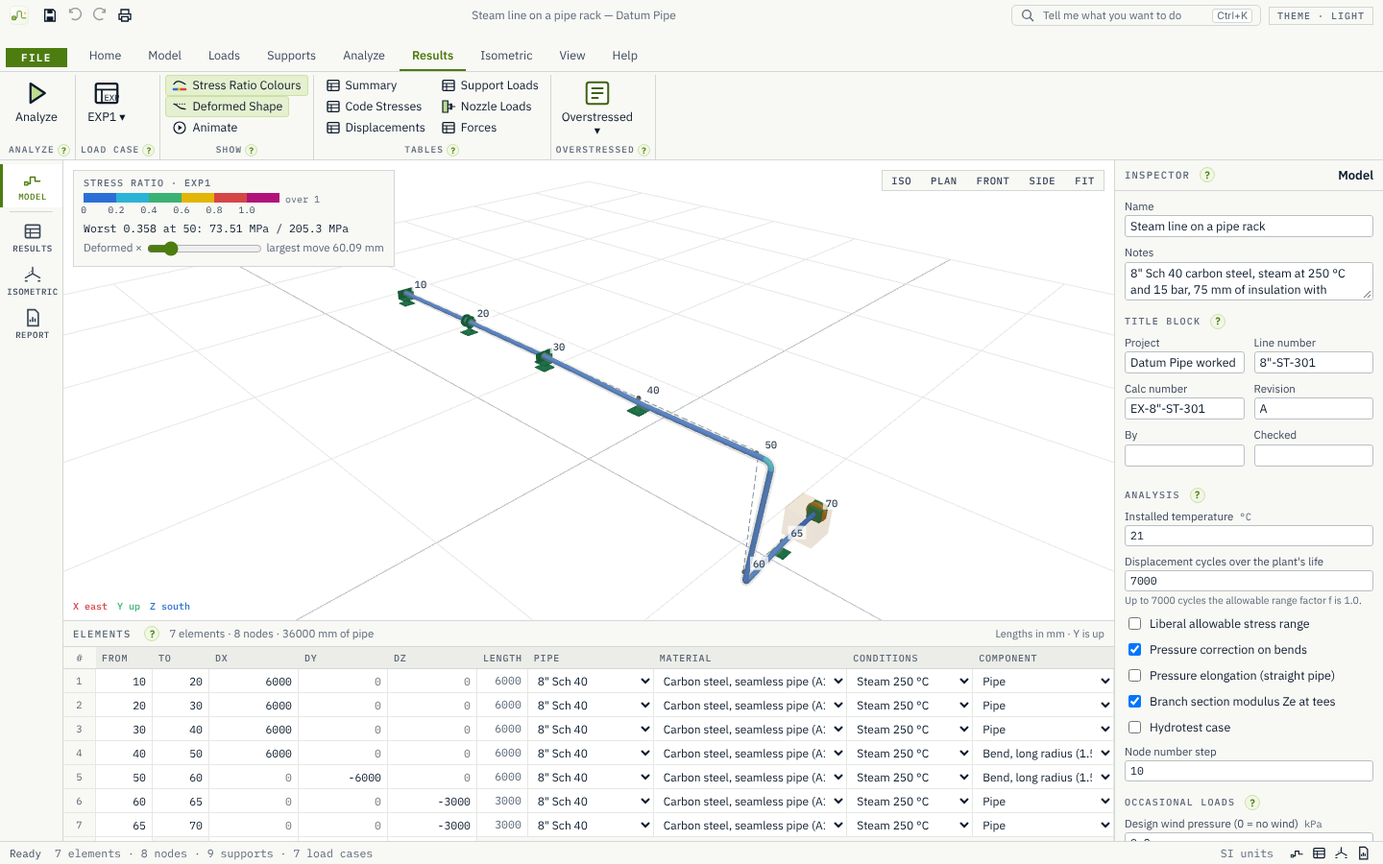
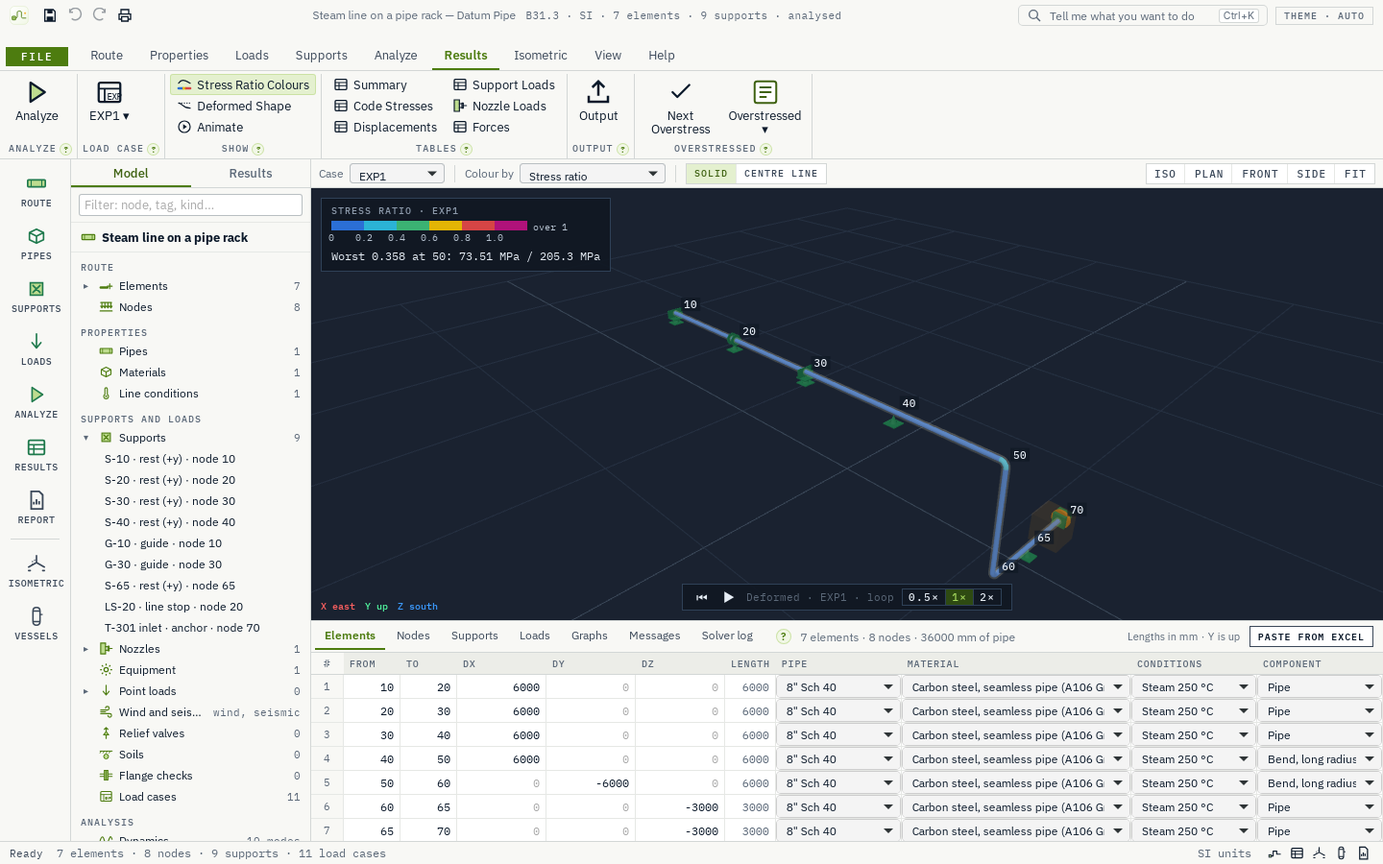
0.7.0: the new window, finished
Review of 0.6.1-0.6.8 in the real app: help card for the window (the
? beside the tree), the Inspector's help as a card, the README picture
of the new window, the load cases' Kind column widened. Roadmap: the
old 0.7 (load combinations and the rest) is 0.8.

Claude-Session: https://claude.ai/code/session_015XbkM7HboUBHrMv4heSExN

diff --git a/ui/src/help.tsx b/ui/src/help.tsx
@@ -75,7 +75,9 @@ export const HELP: Record<string, Topic> = {
   iso: { t: "Isometric", what: "An automatic 30° isometric of the model with bends, tees, valves, flanges, supports, node numbers and dimensions, and optional tags (the highest stress ratio of each element, support loads). Large models split across sheets.", how: ["Print it, or save it as SVG or PDF (File › Print, Save as PDF)."] },
   report: { t: "Report", what: "The stress report: title block, input echo (pipes, materials, conditions), load cases, stress summary per case with the worst point, support loads, nozzle loads, the isometric, the equilibrium checks and the solver version." },
   view: { t: "View", what: "Fit the model; standard views (iso, plan, front, side); node labels. Orbit with the left button, pan with the right or middle button, zoom with the wheel." },
-  inspector: { t: "Inspector", what: "The values of what is selected, in display units: an element, a node with its supports, nozzle and loads, or the model's settings when nothing is selected." },
+  inspector: { t: "Inspector", what: "A card over the 3D view with the values of what is picked, in display units: an element, a node (with what the analysis found there), a support, a nozzle or a load. The model's own settings open from its name at the top of the tree. × or Esc closes the card." },
+  window: { t: "The window", what: "Down the left, the workflow bar: Route, Pipes, Supports, Loads, Analyze, Results and Report, then Isometric and Vessels; a step's icon turns green once it is done, and a click opens its ribbon tab and view. Beside it, the model tree: everything in the model with its count and a filter, and a Results tab with each case's worst ratio and the checks. Above the 3D view, the bar with the case, colour by, solid or centre line and the views; picked items open as a card over the view. At the bottom, the panel's tabs: Elements, Nodes, Supports and Loads as tables, Graphs, Messages (everything the window said, with its time) and the solver log.",
+    how: ["Analyze › Check Model lists what to fix or check, each with Show.", "Results › Next Overstress steps through the overstressed points, worst first; Results › Output writes the cases and reports you tick to a spreadsheet file.", "Elements › Paste from Excel adds elements from rows copied in a spreadsheet."] },
   view3d: { t: "3D view", what: "The piping at its true diameter, with insulation as a translucent sleeve, bends, tees, valves, flanges, supports and node labels. Click an element or a node to select it; the table follows. Right-click a node for supports, nozzles and loads, or an element for its component, splitting, an expansion loop or deleting it." },
 };
 

diff --git a/ui/src/tree.tsx b/ui/src/tree.tsx
@@ -5,6 +5,7 @@ import { For, Show, createSignal, JSX } from "solid-js";
 import { model, sel, setSel, setView, setTab } from "./store";
 import { results, stale, setCaseId } from "./rstate";
 import { Icon } from "./ui";
+import { Help } from "./help";
 import { num } from "./api";
 import * as P from "./props";
 import { SUPPORTS } from "./cmds";
@@ -92,7 +93,7 @@ const ResultsTree = () => {
 
 export const Tree = () => (
   <aside class="tree">
-    <div class="ttabs"><button classList={{ on: treeTab() === "model" }} onClick={() => setTreeTab("model")}>Model</button><button classList={{ on: treeTab() === "results" }} onClick={() => setTreeTab("results")}>Results</button></div>
+    <div class="ttabs"><button classList={{ on: treeTab() === "model" }} onClick={() => setTreeTab("model")}>Model</button><button classList={{ on: treeTab() === "results" }} onClick={() => setTreeTab("results")}>Results</button><Help k="window" /></div>
     <Show when={treeTab() === "model"}><div class="tf"><input placeholder="Filter: node, tag, kind…" value={filter()} onInput={e => setFilter(e.currentTarget.value)} aria-label="Filter the tree" /></div></Show>
     <Show when={model()}><Show when={treeTab() === "model"} fallback={<ResultsTree />}><ModelTree /></Show></Show>
   </aside>

diff --git a/ui/src/styles.css b/ui/src/styles.css
@@ -999,3 +999,6 @@ textarea.paste { width: 100%; box-sizing: border-box; min-height: 160px; font: 1
 .outgrid { display: grid; grid-template-columns: repeat(2, minmax(0, 1fr)); gap: 18px; }
 .outgrid > div { display: flex; flex-direction: column; gap: 2px; }
 .outgrid .cap { font: 500 10px var(--mono); letter-spacing: .1em; text-transform: uppercase; color: var(--muted); margin-bottom: 4px; }
+/* The load cases' Kind column was cut ("Operatin", found while taking the 0.7.0 screenshots). */
+.tbl.cases td:nth-child(2) select { min-width: 112px; }
+.tree .ttabs .help { align-self: center; margin: 0 6px; flex: none; }

diff --git a/docs/verification/0.7.0.md b/docs/verification/0.7.0.md
@@ -1,0 +1,116 @@
+# Datum Pipe 0.7.0: verification record
+
+Every row was solved by Datum Pipe's engine and compared with a reference worked out independently. The same checks run as tests (`cargo test`, `bench.rs`) and in the app (Help › Verification). SI base units.
+
+| # | Benchmark | Quantity | Datum Pipe | Reference | Error | Source | |
+| --- | --- | --- | --- | --- | --- | --- | --- |
+| 1 | Cantilever with an end load | Tip deflection | -3.806237e-2 | -3.806237e-2 | 1.3e-14 | Beam theory: PL³/3EI + PL/κGA (shear, κ = 0.5) | pass |
+| 1 | Cantilever with an end load | Root moment | 3.000000e4 | 3.000000e4 | 1.7e-14 | Statics: P L | pass |
+| 1 | Cantilever with an end load | Tip rotation | -1.892448e-2 | -1.892448e-2 | 9.2e-15 | Beam theory: PL²/2EI | pass |
+| 2 | Pipe under its own weight between two anchors | Mid-span deflection | -6.676014e-4 | -6.676014e-4 | 3.2e-16 | Beam theory: wL⁴/384EI + wL²/8κGA | pass |
+| 2 | Pipe under its own weight between two anchors | End moment | 1.379962e3 | 1.379962e3 | 1.2e-15 | Beam theory: wL²/12 | pass |
+| 2 | Pipe under its own weight between two anchors | End reaction | 1.379962e3 | 1.379962e3 | 2.5e-15 | Statics: wL/2 | pass |
+| 3 | L-bend between two anchors, heated | End force along X | -6.855784e3 | -6.855784e3 | 2.9e-15 | Flexibility (elastic centre) method by hand | pass |
+| 3 | L-bend between two anchors, heated | End force along Y | -4.154290e3 | -4.154290e3 | 2.3e-14 | Flexibility (elastic centre) method by hand | pass |
+| 3 | L-bend between two anchors, heated | End moment | -1.141230e4 | -1.141230e4 | 4.3e-15 | Flexibility (elastic centre) method by hand | pass |
+| 4 | Z-bend between two anchors, heated | End force along X | -4.527476e3 | -4.527476e3 | 2.3e-14 | Flexibility (elastic centre) method by hand | pass |
+| 4 | Z-bend between two anchors, heated | End force along Y | -5.654916e3 | -5.654916e3 | 4.7e-15 | Flexibility (elastic centre) method by hand | pass |
+| 4 | Z-bend between two anchors, heated | End moment | 7.909797e3 | 7.909797e3 | 6.9e-15 | Flexibility (elastic centre) method by hand | pass |
+| 5 | A bend's flexibility (6" long-radius elbow) | End rotation under an in-plane moment | 9.951628e-4 | 9.951628e-4 | 1.3e-15 | k = 1.65/h, h = T·R/r²; θ = k M R (π/2) / EI | pass |
+| 5 | A bend's flexibility (6" long-radius elbow) | Flexibility factor k | 6.590019e0 | 6.590000e0 | 2.9e-6 | h = 0.2504 by hand | pass |
+| 6 | Minimum wall for internal pressure | Pressure design thickness | 5.925176e-3 | 5.925176e-3 | 9.5e-9 | Pressure design thickness equation (para. 304.1.2) by hand | pass |
+| 6 | Minimum wall for internal pressure | Nominal wall needed (corrosion, 12.5 % mill) | 8.485915e-3 | 8.485915e-3 | 5.8e-8 | Pressure design thickness equation (para. 304.1.2) by hand | pass |
+| 6 | Minimum wall for internal pressure | Hoop stress on the remaining wall | 1.741442e8 | 1.741442e8 | 9.2e-11 | Pressure design thickness equation (para. 304.1.2) by hand | pass |
+| 7 | Expansion loop between two anchors, heated | Anchor force along the line | -1.835947e3 | -1.835947e3 | 4.5e-15 | Expansion loop by the elastic centre method | pass |
+| 7 | Expansion loop between two anchors, heated | Anchor moment | 1.658275e3 | 1.658275e3 | 1.9e-13 | Expansion loop by the elastic centre method | pass |
+| 9 | Minimum wall of a bend at its intrados | Bend factor I at the intrados | 1.291209e0 | 1.291209e0 | 1.6e-10 | Bend factor from the membrane equilibrium of a torus, by hand | pass |
+| 9 | Minimum wall of a bend at its intrados | Pressure design thickness | 7.588391e-3 | 7.588391e-3 | 4.6e-8 | Bend factor from the membrane equilibrium of a torus, by hand | pass |
+| 10 | Pressure elongation between two anchors | Anchor force along the line | -6.399112e4 | -6.399112e4 | 0.0e0 | Hooke's law: N = E A (σL − ν σh) / E | pass |
+| 11 | A tee branch's effective section modulus | Sustained stress in the branch at the tee | 1.801948e8 | 1.801948e8 | 2.0e-10 | Ze = π r₂² Ts with Markl's tee factors, by hand | pass |
+| 12 | A one-way rest under a cantilever's tip | Pushed up: tip lifts as a free cantilever | 3.806237e-2 | 3.806237e-2 | 1.3e-14 | Beam theory: PL³/3EI + PL/κGA, rest open | pass |
+| 12 | A one-way rest under a cantilever's tip | Pushed up: rest load | 0.000000e0 | 0.000000e0 | 0.0e0 | The rest cannot pull | pass |
+| 12 | A one-way rest under a cantilever's tip | Pushed down: rest load | 1.000000e4 | 1.000000e4 | 0.0e0 | Statics: the rest carries P | pass |
+| 13 | A gap closing at a cantilever's tip | Tip movement (the gap) | 5.000000e-3 | 5.000000e-3 | 0.0e0 | The gap: 5 mm | pass |
+| 13 | A gap closing at a cantilever's tip | Restraint load | -8.686367e3 | -8.686367e3 | 4.4e-15 | Beam theory: P − g / c, c = L³/3EI + L/κGA | pass |
+| 14 | Friction at a rest, heated | Sliding: friction force (μ P) | -3.000000e3 | -3.000000e3 | 0.0e0 | Coulomb friction: μ N, N = P by statics | pass |
+| 14 | Friction at a rest, heated | Sliding: end movement | 1.318558e-2 | 1.318558e-2 | 0.0e0 | Hooke's law: ε L − μ P L / EA | pass |
+| 14 | Friction at a rest, heated | Sticking: friction force (E A ε < μ P) | -1.609389e6 | -1.609389e6 | 0.0e0 | Hooke's law: E A ε | pass |
+| 14 | Friction at a rest, heated | Sticking: end movement | 0.000000e0 | 0.000000e0 | 0.0e0 | The rest holds the pipe | pass |
+| 15 | Wind on a cantilever | Tip deflection (OCC WIN) | 5.053321e-4 | 5.053321e-4 | 2.6e-14 | Beam theory: qL⁴/8EI + qL²/2κGA, q = p Cd D | pass |
+| 15 | Wind on a cantilever | Root moment (OCC WIN) | 5.300663e2 | 5.300662e2 | 2.1e-14 | Statics: qL²/2 | pass |
+| 16 | Static seismic on a cantilever | Root force (OCC SEIS) | -2.494823e2 | -2.494823e2 | 1.6e-15 | Statics: 0.3 w L | pass |
+| 16 | Static seismic on a cantilever | Root moment (OCC SEIS) | 3.742235e2 | 3.742235e2 | 5.6e-15 | Statics: 0.3 w L²/2 | pass |
+| 17 | Occasional stress at the root of the cantilever | Sustained plus seismic stress | 1.164797e7 | 1.164797e7 | 1.0e-14 | Para. 302.3.6: SL + S_occ, beam theory M/Z | pass |
+| 18 | A spring hanger on a heated riser and run | Hot load H | 2.000000e4 | 2.000000e4 | 0.0e0 | Statics: the load at the held hanger | pass |
+| 18 | A spring hanger on a heated riser and run | Travel Δ | 8.806800e-3 | 8.806800e-3 | 0.0e0 | Free thermal growth of the 4 m riser | pass |
+| 18 | A spring hanger on a heated riser and run | Spring rate chosen (B-10) | 2.050000e5 | 2.050000e5 | 0.0e0 | The table's first size that fits | pass |
+| 18 | A spring hanger on a heated riser and run | Cold load C = H + k Δ | 2.180539e4 | 2.180539e4 | 0.0e0 | Hooke's law | pass |
+| 18 | A spring hanger on a heated riser and run | Hanger load in operation (OPE1) | 2.000000e4 | 2.000000e4 | 0.0e0 | C − k Δ = H | pass |
+| 19 | A steam turbine's nozzle criteria | Exhaust: 3F + M (lb, ft·lb) | 9.561680e3 | 9.561680e3 | 3.8e-16 | Statics, and the turbine criteria as published equations | pass |
+| 19 | A steam turbine's nozzle criteria | All nozzles at the exhaust: 2Fc + Mc | 8.999693e3 | 8.999693e3 | 2.0e-16 | Statics, and the turbine criteria as published equations | pass |
+| 19 | A steam turbine's nozzle criteria | All nozzles: Fy (lb) | 1.000000e3 | 1.000000e3 | 4.5e-16 | Statics, and the turbine criteria as published equations | pass |
+| 19 | A steam turbine's nozzle criteria | Combined allowable 250·Dc | 2.121320e3 | 2.121320e3 | 0.0e0 | Dc = √(6² + 6²) in | pass |
+| 20 | A flange pair's leakage (equivalent pressure) | Equivalent pressure | 7.257465e6 | 7.257465e6 | 4.3e-12 | Statics, and P_eq = 16M/πG³ + 4F/πG² (Kellogg, 1956) | pass |
+| 20 | A flange pair's leakage (equivalent pressure) | Ratio to the rating | 1.651493e0 | 1.651493e0 | 3.8e-12 | Statics, and P_eq = 16M/πG³ + 4F/πG² (Kellogg, 1956) | pass |
+| 21 | A relief valve's thrust at an open end | Thrust with the load factor | 1.380356e4 | 1.380356e4 | 0.0e0 | Momentum and pressure thrust at a sonic exit (ideal gas), and statics | pass |
+| 21 | A relief valve's thrust at an open end | Anchor force (up) | 1.380356e4 | 1.380356e4 | 3.3e-14 | Momentum and pressure thrust at a sonic exit (ideal gas), and statics | pass |
+| 21 | A relief valve's thrust at an open end | Anchor moment | 2.760711e4 | 2.760711e4 | 3.1e-14 | Momentum and pressure thrust at a sonic exit (ideal gas), and statics | pass |
+| 22 | A cantilever from a flexible nozzle | Extra tip deflection | 4.100000e-2 | 4.100000e-2 | 2.2e-15 | Beam theory with springs in series: P L²/kθ + P/ks, and statics | pass |
+| 22 | A cantilever from a flexible nozzle | Nozzle rotation | 2.000000e-2 | 2.000000e-2 | 1.7e-15 | Beam theory with springs in series: P L²/kθ + P/ks, and statics | pass |
+| 22 | A cantilever from a flexible nozzle | Anchor moment | 2.000000e4 | 2.000000e4 | 1.6e-15 | Beam theory with springs in series: P L²/kθ + P/ks, and statics | pass |
+| 23 | An expansion joint's spring rates and pressure thrust | Lateral force for a 5 mm offset | 5.000000e3 | 5.000000e3 | 1.8e-16 | The maker's rates by definition, and statics with springs in series | pass |
+| 23 | An expansion joint's spring rates and pressure thrust | Rotation under 100 N·m | 3.333333e-3 | 3.333333e-3 | 1.3e-16 | The maker's rates by definition, and statics with springs in series | pass |
+| 23 | An expansion joint's spring rates and pressure thrust | Anchor force from the pressure thrust | 2.995083e4 | 2.995083e4 | 0.0e0 | The maker's rates by definition, and statics with springs in series | pass |
+| 24 | Wind that changes with height, both ways | Base shear (OCC WIN) | 5.889625e2 | 5.889625e2 | 1.1e-13 | Statics: the area under the profile and its moment, element by element | pass |
+| 24 | Wind that changes with height, both ways | Base moment (OCC WIN) | 3.916601e3 | 3.916601e3 | 7.4e-14 | Statics: the area under the profile and its moment, element by element | pass |
+| 24 | Wind that changes with height, both ways | Base shear the other way (OCC −WIN) | -5.889625e2 | -5.889625e2 | 1.1e-13 | Statics: the area under the profile and its moment, element by element | pass |
+| 25 | A vertical vessel's shell and heads (V-101) | Shell thickness for pressure | 1.253620e-2 | 1.253620e-2 | 0.0e0 | Thin-shell membrane equations with the liquid's static head | pass |
+| 25 | A vertical vessel's shell and heads (V-101) | Bottom head thickness for pressure | 1.060473e-2 | 1.060473e-2 | 0.0e0 | Thin-shell membrane equations with the liquid's static head | pass |
+| 25 | A vertical vessel's shell and heads (V-101) | MAWP at the top (shell governs) | 1.659238e6 | 1.659238e6 | 1.4e-16 | Thin-shell membrane equations with the liquid's static head | pass |
+| 25 | A vertical vessel's shell and heads (V-101) | Hydrotest pressure | 2.157010e6 | 2.157010e6 | 2.2e-16 | Thin-shell membrane equations with the liquid's static head | pass |
+| 25 | A vertical vessel's shell and heads (V-101) | Volume | 1.679332e1 | 1.679495e1 | 9.7e-5 | π R² L + 2 × π D³ / 24 | pass |
+| 26 | A vessel nozzle's reinforcement (V-101, N1) | Area required d tr | 2.125036e-3 | 2.125036e-3 | 0.0e0 | Area replacement within the reinforcement limits | pass |
+| 26 | A vessel nozzle's reinforcement (V-101, N1) | Area available | 3.577674e-3 | 3.577674e-3 | 1.2e-16 | Area replacement within the reinforcement limits | pass |
+| 26 | A vessel nozzle's reinforcement (V-101, N1) | Neck's minimum thickness | 1.015645e-2 | 1.015645e-2 | 0.0e0 | Area replacement within the reinforcement limits | pass |
+| 27 | A horizontal vessel on two saddles (D-201) | Mid-span moment M2 | 4.043117e5 | 4.043117e5 | 0.0e0 | Statics of the vessel as a beam on two saddles | pass |
+| 27 | A horizontal vessel on two saddles (D-201) | Tangential shear (stiffened by the head) | 1.757772e7 | 1.757964e7 | 1.1e-4 | Zick's method (1951), the 120° table constants | pass |
+| 27 | A horizontal vessel on two saddles (D-201) | Circumferential stress at the horn | -5.930434e7 | -5.925860e7 | 7.7e-4 | Zick's method (1951), the 120° table constants | pass |
+| 28 | A vertical vessel on a skirt (V-101) | Wind base shear | 1.362720e4 | 1.362696e4 | 1.8e-5 | Drag on the projected outline | pass |
+| 28 | A vertical vessel on a skirt (V-101) | Seismic base shear | 1.841941e4 | 1.843372e4 | 7.8e-4 | Newton's second law: c m g | pass |
+| 28 | A vertical vessel on a skirt (V-101) | Anchor bolt stress | 1.796196e7 | 1.796196e7 | 2.1e-16 | Statics: 4M/(N BC) − W/N over the root area | pass |
+| 28 | A vertical vessel on a skirt (V-101) | Base ring thickness | 1.231754e-2 | 1.231754e-2 | 0.0e0 | A cantilever strip: l √(3 σ / S) | pass |
+| 29 | A bolted cover (V-101, M1) | Bolt load in operation Wm1 | 4.997296e5 | 4.997296e5 | 2.3e-16 | The bolted flange method: gasket loads, bolt loads, a flat cover in bending | pass |
+| 29 | A bolted cover (V-101, M1) | Cover thickness, operating | 4.288670e-2 | 4.288670e-2 | 0.0e0 | The bolted flange method: gasket loads, bolt loads, a flat cover in bending | pass |
+| 29 | A bolted cover (V-101, M1) | Cover thickness, gasket seating | 4.627164e-2 | 4.627164e-2 | 0.0e0 | The bolted flange method: gasket loads, bolt loads, a flat cover in bending | pass |
+| 30 | A vessel's lifting lugs (V-101) | Tension across the hole | 1.979673e7 | 1.979673e7 | 0.0e0 | Statics of a plate lug | pass |
+| 30 | A vessel's lifting lugs (V-101) | Tension and bending at the base | 1.734767e7 | 1.734767e7 | 0.0e0 | Statics of a plate lug | pass |
+| 31 | A vessel nozzle under its piping's loads (V-101, N1) | Neck stress in OPE1 | 6.925812e7 | 6.925812e7 | 0.0e0 | Beam theory on the neck: pressure, axial force, bending and torsion | pass |
+| 32 | A horizontal vessel under full vacuum (D-201) | Allowable external pressure, shell | 1.935147e5 | 1.935147e5 | 0.0e0 | Elastic collapse of a ring-stiffened tube (von Mises, short tube) and ring buckling 3EI/(R³ Ls) | pass |
+| 32 | A horizontal vessel under full vacuum (D-201) | Ring's moment of inertia needed | 2.752597e-6 | 2.752597e-6 | 0.0e0 | Elastic collapse of a ring-stiffened tube (von Mises, short tube) and ring buckling 3EI/(R³ Ls) | pass |
+| 33 | Natural frequencies of a pipe span | Cantilever, first frequency (Hz) | 1.793499e1 | 1.803368e1 | 5.5e-3 | Beam theory: f1 = (λ²/2π) √(EI / m L⁴) | pass |
+| 33 | Natural frequencies of a pipe span | Fixed-fixed span, first frequency (Hz) | 1.028477e1 | 1.032776e1 | 4.2e-3 | Beam theory: f1 = (λ²/2π) √(EI / m L⁴) | pass |
+| 34 | A cantilever in a response spectrum | Base shear, one mode (flat 0.5 g) | 2.554657e2 | 2.549294e2 | 2.1e-3 | The first mode of a uniform cantilever carries 0.6131 of its mass: V = 0.6131 m L Sa | pass |
+| 35 | A heavy tip mass driven at half its natural frequency | Tip amplitude | 5.165130e-3 | 5.165121e-3 | 1.8e-6 | One degree of freedom: (F/k) / √((1 − r²)² + (2ζr)²) | pass |
+| 36 | A straight pipe between anchors made 3 mm short | Installed axial force (COLD) | -3.654879e5 | -3.654879e5 | 0.0e0 | Hooke's law: EA c / L | pass |
+| 36 | A straight pipe between anchors made 3 mm short | Hot axial force (OPE1) | 1.243902e6 | 1.243902e6 | 1.9e-16 | Hooke's law: EA (ε L − c) / L | pass |
+| 37 | Power piping code: sustained stress with torsion | Sustained stress at the root | 2.389721e8 | 2.389721e8 | 5.7e-15 | P Do / 4t + 0.75 i M / Z with M = √(Mb² + Mt²), 0.75 i held at 1 | pass |
+| 38 | European piping standard: wall and range allowable | Design thickness | 5.967199e-3 | 5.967199e-3 | 0.0e0 | e = p Do / (2 f z + p) | pass |
+| 38 | European piping standard: wall and range allowable | Range allowable at the anchor, fa + fh − σ1 | 2.804956e8 | 2.804956e8 | 0.0e0 | σ1 + σ3 ≤ fh + fa, fa = U (1.25 fc + 0.25 fh), U = 1 to 7000 cycles | pass |
+| 39 | Buried pipe: beam on an elastic foundation, and soil friction | Sideways movement at the loaded end | 1.134268e-2 | 1.138853e-2 | 4.0e-3 | Hetényi: y0 = 2 P β / k (an Euler beam; shear and the springs at the nodes give the rest) | pass |
+| 39 | Buried pipe: beam on an elastic foundation, and soil friction | Free end movement of a long heated pipe | -8.863482e-2 | -8.858482e-2 | 5.6e-4 | Statics with friction f per length: δ = F² / (2 EA f), F = EA ε | pass |
+| 40 | A vertical vessel's shell by the European rules (V-101) | Shell thickness for pressure | 1.251882e-2 | 1.251882e-2 | 0.0e0 | e = P Di / (2 f z − P); Pmax = 2 f z e / (Di + e) | pass |
+| 40 | A vertical vessel's shell by the European rules (V-101) | MAWP at the top (shell governs) | 1.661631e6 | 1.661631e6 | 1.4e-16 | e = P Di / (2 f z − P); Pmax = 2 f z e / (Di + e) | pass |
+| 40 | A vertical vessel's shell by the European rules (V-101) | Hydrostatic test pressure | 2.376133e6 | 2.376133e6 | 0.0e0 | max(1.25 Pd f20/fd, 1.43 Pd) | pass |
+| 8 | Equilibrium: Pump discharge with an expansion loop | Largest imbalance in any load case | 1.059489e-11 | 0.000000e0 | 1.1e-11 | Statics: Σ reactions + Σ loads = 0 | pass |
+| 8 | Equilibrium: Compressor suction to a header | Largest imbalance in any load case | 1.898042e-13 | 0.000000e0 | 1.9e-13 | Statics: Σ reactions + Σ loads = 0 | pass |
+| 8 | Equilibrium: Steam line on a pipe rack | Largest imbalance in any load case | 1.919222e-12 | 0.000000e0 | 1.9e-12 | Statics: Σ reactions + Σ loads = 0 | pass |
+| 8 | Equilibrium: Tank outlet with settlement | Largest imbalance in any load case | 1.269938e-11 | 0.000000e0 | 1.3e-11 | Statics: Σ reactions + Σ loads = 0 | pass |
+| 8 | Equilibrium: Safety valve vent stack | Largest imbalance in any load case | 2.288725e-11 | 0.000000e0 | 2.3e-11 | Statics: Σ reactions + Σ loads = 0 | pass |
+| 8 | Equilibrium: Expansion joint between anchors | Largest imbalance in any load case | 1.984294e-15 | 0.000000e0 | 2.0e-15 | Statics: Σ reactions + Σ loads = 0 | pass |
+| 8 | Equilibrium: Vertical separator V-101 | Largest imbalance in any load case | 2.157495e-12 | 0.000000e0 | 2.2e-12 | Statics: Σ reactions + Σ loads = 0 | pass |
+| 8 | Equilibrium: Boiler steam to a header (power piping) | Largest imbalance in any load case | 3.260639e-12 | 0.000000e0 | 3.3e-12 | Statics: Σ reactions + Σ loads = 0 | pass |
+| 8 | Equilibrium: Buried hot water line | Largest imbalance in any load case | 7.044407e-15 | 0.000000e0 | 7.0e-15 | Statics: Σ reactions + Σ loads = 0 | pass |
+| 8 | Equilibrium: A simple L-bend | Largest imbalance in any load case | 4.857955e-13 | 0.000000e0 | 4.9e-13 | Statics: Σ reactions + Σ loads = 0 | pass |
+| 8 | Equilibrium: A Z-bend | Largest imbalance in any load case | 1.506650e-13 | 0.000000e0 | 1.5e-13 | Statics: Σ reactions + Σ loads = 0 | pass |
+
+108 of 108 checks pass.

diff --git a/README.md b/README.md
@@ -29,6 +29,7 @@ Route a piping system in a table, the way a stress engineer marks up an isometri
 
 ## What it does
 
+- **A window built for the work** (0.7): a workflow bar down the left, the model tree with counts and a filter, the Inspector as a card over the 3D view, a bar above the view to colour the pipe by any result or property, results on a dark ground, a node's results when you click it, Next Overstress, a player, graphs along the route, node, support and load tables, Messages and the solver log, a model checker, and output of chosen cases and reports to a spreadsheet.
 - **An element table that draws as you type**: From node, To node, DX, DY, DZ, pipe, material, line conditions and component, with values in any unit (20 ft, 150 mm). Node numbers step by 10; new rows copy the row above. Analysis runs again after every edit, and right-click menus in the 3D view add supports and change components.
 - **Pipe data**: nominal sizes ½" to 24" in every schedule, your own sizes, corrosion allowance, mill tolerance, insulation, cladding and contents; carbon, low-alloy, stainless 304 and 316 and duplex steels with modulus and expansion against temperature and their sources.
 - **Components**: long and short radius bends or your own radius, welding, fabricated and reinforced tees, concentric reducers, valves and flanged joints with their weight, and bellows expansion joints with the maker's rates and their pressure thrust.
@@ -40,7 +41,7 @@ Route a piping system in a table, the way a stress engineer marks up an isometri
 - **Pressure vessels**: vertical and horizontal vessels with heads, shell courses and cones: thickness for pressure with the liquid's static head, MAWP and MAP, nozzle reinforcement by area replacement, horizontal vessels on two saddles by Zick's method, vertical vessels on a skirt in wind and seismic with their anchor bolts and base ring, bolted flanges and covers, lifting lugs, trunnions and legs, the piping's loads checked on the vessel's nozzles, and external pressure with stiffening rings, hydrotest pressure, volume and weights, drawn to scale and in the report.
 - **Dynamics**: natural frequencies and mode shapes with the mass each mode moves, each mode animated in the 3D view; a response spectrum on the modes (CQC), checked as an occasional load; a harmonic load at a frequency, with damping.
 - **Isometric and report**: an automatic 30° isometric with dimensions, symbols and result tags (print or SVG), and a printed stress report with the title block, input echo, stress summary, support and nozzle loads, the isometric and the equilibrium checks.
-- **Import and export**: plain-text piping component files (.pcf) from design tools, as a new model, and the model's geometry back out as one.
+- **Import and export**: plain-text piping component files (.pcf) from design tools, as a new model, and the model's geometry back out as one; elements pasted from a spreadsheet; results out to a spreadsheet (CSV).
 - **Editing tools**: an expansion loop wizard, copy and mirror a section, insert a node, renumber, undo and redo everything.
 - **Verified**: Help › Verification solves benchmark problems with known answers in front of you: beam theory, heated L-bends, Z-bends and an expansion loop against the flexibility method by hand, a bend's flexibility, the minimum wall equation on straight pipe and at a bend's intrados, pressure elongation, a tee branch's effective section modulus, a one-way rest lifting off, a gap closing, friction sliding and sticking, wind and static seismic on a cantilever and the occasional stress, a spring hanger sized by hand, a steam turbine's nozzle criteria, a flange's equivalent pressure, a relief valve's thrust, and the equilibrium of every example.
 - **Worked examples**: a pump discharge with an expansion loop, a compressor suction line, a steam line on a pipe rack (one-way rests, friction, gapped guides, wind and seismic), a tank outlet with settlement and a sized spring hanger, a safety valve vent stack, an expansion joint between anchors, a vertical separator with its inlet line and a horizontal drum on saddles at full vacuum, boiler steam to a header on the power piping code, a buried hot water line, and an L-bend and a Z-bend to check by hand.

diff --git a/docs/MEMORY.md b/docs/MEMORY.md
@@ -270,7 +270,9 @@ Each stage is reached through small 0.x.y steps; the next minor version (0.2.0, 
 | 0.5.4 | More codes: buried pipe (soil springs from first-principles soil mechanics) | ✅ |
 | 0.5.5 | More codes: European vessel standard (EN 13445-3) cylinders, spheres, cones, test pressure (dished heads: default rules) | ✅ |
 | 0.6.0 | Milestone: more codes reviewed | ✅ |
-| 0.7 | 🔜 Load combinations, sustained case with operating support states, more operating cases, other pipe size standards, jacketed pipe | ⬜ |
+| 0.6.1–0.6.8 | The new window from the approved mock-ups (workflow bar, tree, card, bar above the view, colour by, dark results, query, player, graphs, tables, paste, Messages, Home, checker, output) | ✅ |
+| 0.7.0 | Milestone: the new window reviewed | ✅ |
+| 0.8 | 🔜 Load combinations, sustained case with operating support states, more operating cases, other pipe size standards, jacketed pipe | ⬜ |
 | 1.0 | Validation report, user guide, signed installer | ⬜ |
 
 **Backlog: owner said "we should not miss out anything"** (each becomes small steps when its stage starts; every item from free public sources only):
@@ -548,6 +550,9 @@ Order when it starts: 1, 2, 3, 7 first (useful with outside layout tools too); 4
 
 ### 2026-11-09: Session 2, continued (0.6.8: output)
 - UI: `output.tsx` (`toCsv` with the formula guard, `outputDialog`); Results › Output. Real app: an empty model's view was black (ground now set at the top of `build` and when the renderer starts; a UI check reads a canvas pixel); the Results ribbon overflowed (label "Output"). Three UI checks.
+
+### 2026-11-09: Session 2, continued (0.7.0: the new window, finished)
+- Review in the real app: README picture replaced with the new window; help card "window"; Inspector help as a card; the load cases' Kind column widened. Roadmap: the old 0.7 (load combinations…) is 0.8. New UI files: `tree.tsx`, `console.tsx`, `checker.tsx`, `output.tsx`.
 
 ## 5. Known limits (0.2.0)
 

diff --git a/CHANGELOG.md b/CHANGELOG.md
@@ -1,5 +1,17 @@
 # Changelog
 
+## 0.7.0 — 2026-11-09
+
+The new window, finished.
+
+**The stage.** Since 0.6.1 the window has been rebuilt to the approved mock-ups, after Datum Mesh and the Datum family's design: the workflow bar down the left (no numbers; each finished step green), the model tree with counts, a filter and a Results tab, the Inspector as a card over the 3D view, the bar above the view (case, colour by any result or property, solid or centre line, the views), results on a dark ground with the legend as a card, a node's results in its card, Next Overstress, the player, graphs along the route, the bottom panel's tables (nodes, supports, loads), Paste from Excel, Messages and the solver log, File › Home with the examples in folders and a search, Check Model, and Output to a spreadsheet.
+
+**Reviewed.** Every step with the full checks and in the real app; over sixty new UI checks. Help has a card for the window as a whole, and the README's picture is the new window.
+
+**Fixed.** The load cases' Kind column was cut short ("Operatin").
+
+**Next.** 0.8: load combinations, a sustained case with the operating support states, more operating cases, other pipe size standards and jacketed pipe.
+
 ## 0.6.8 — 2026-11-09
 
 The new window, step 8: output to a spreadsheet.
